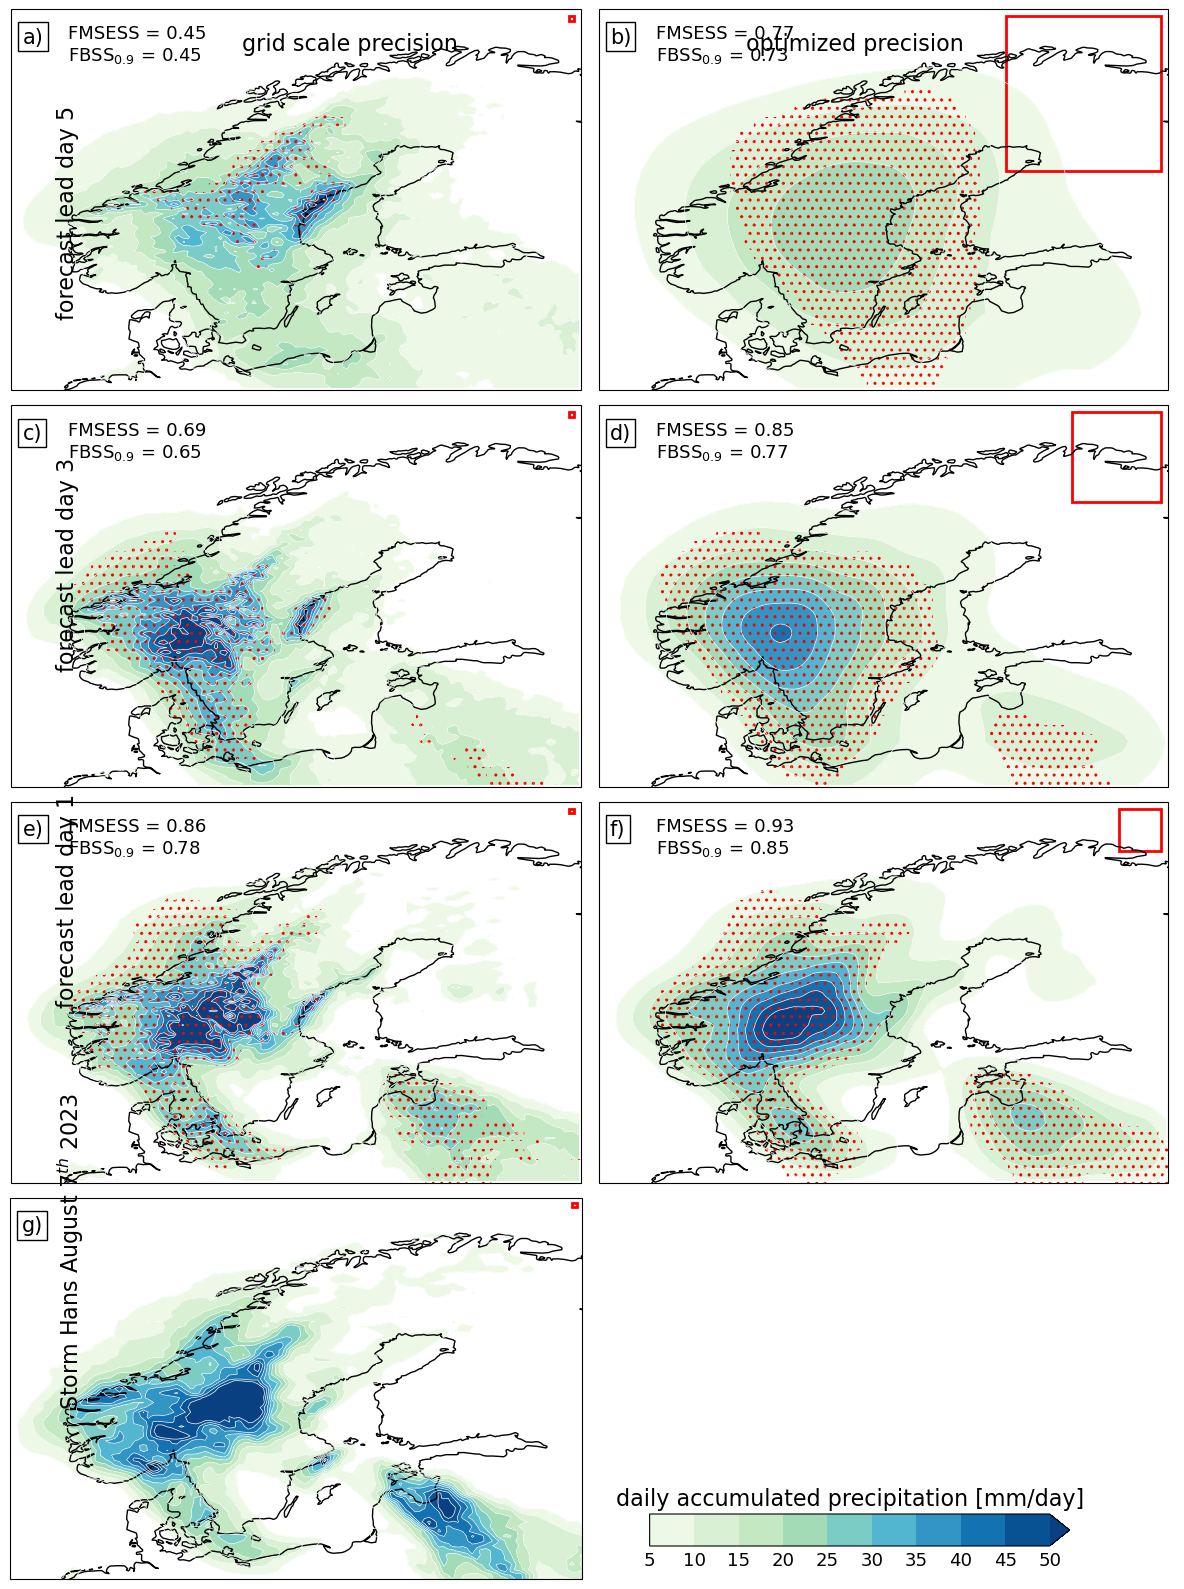
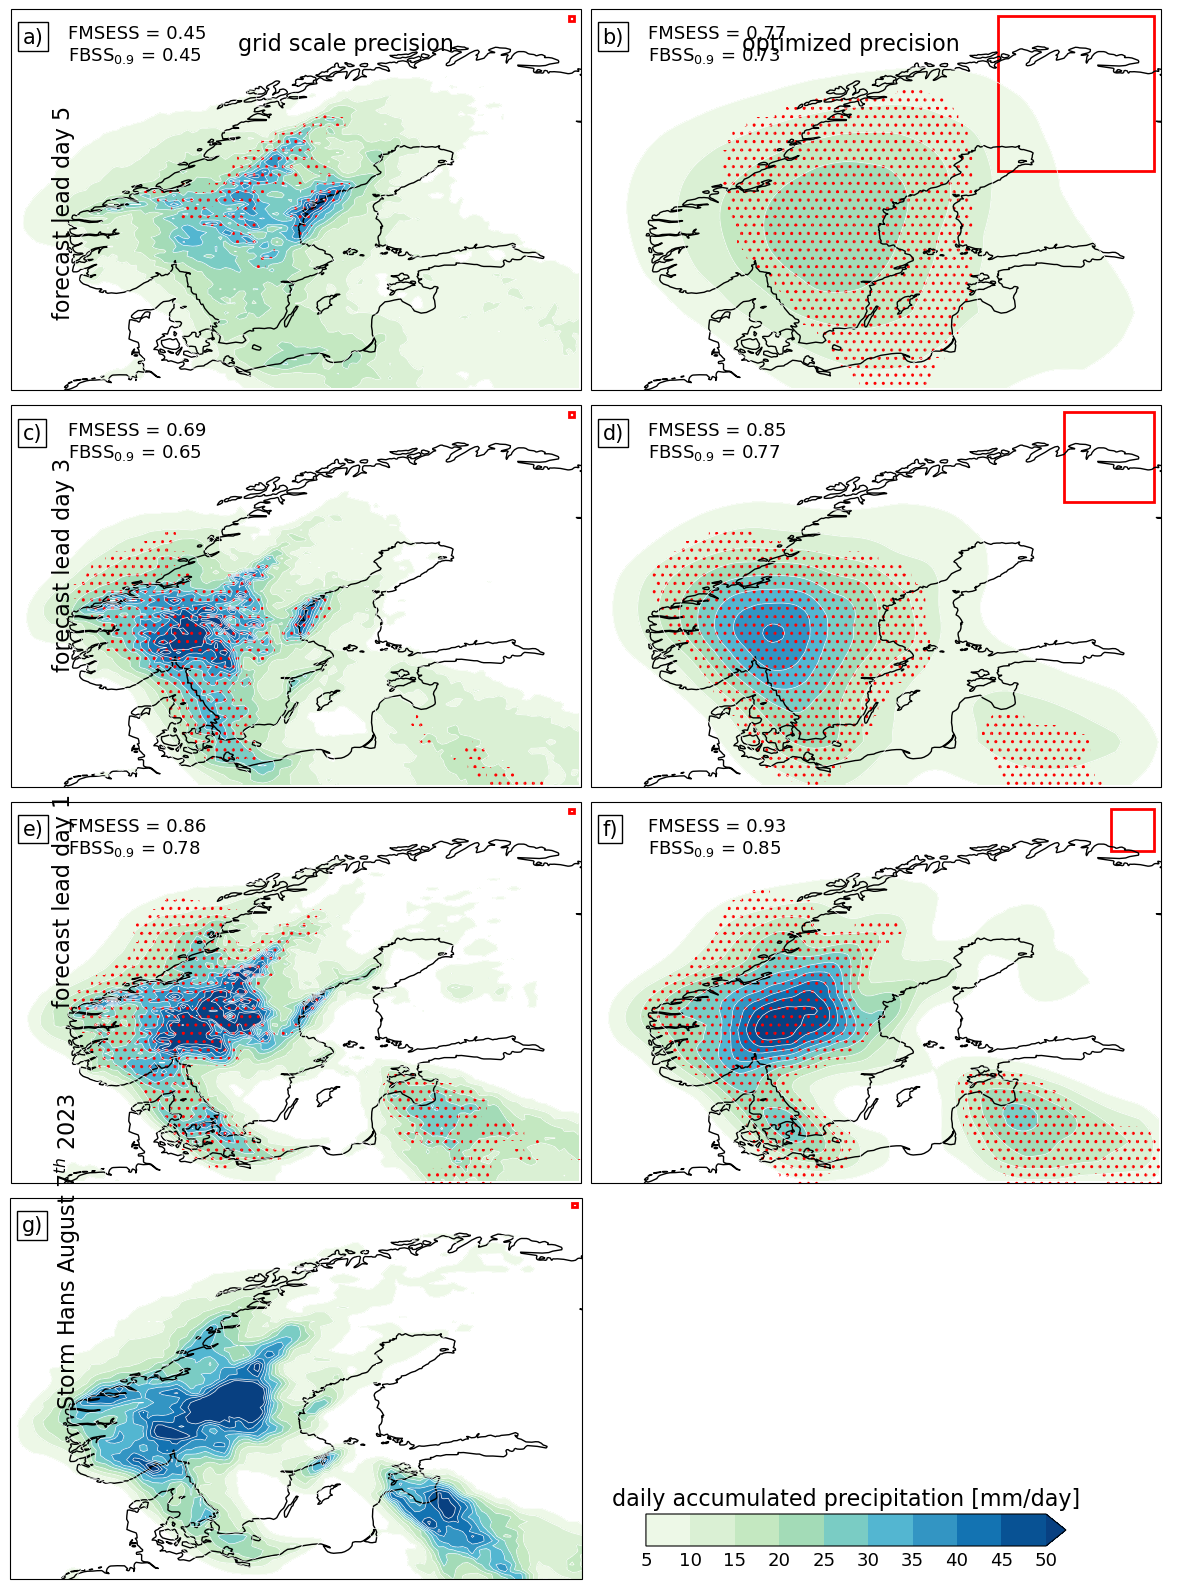
update

diff --git a/code/plot/test.py b/code/plot/test.py
@@ -91,8 +91,7 @@ ax       = ax.ravel()
 
 
 #fig.subplots_adjust(right=0.925, left=0.075,top=0.96,hspace=0.03,wspace=0.01)
-#fig.subplots_adjust(hspace=0.03,wspace=0.01)
-fig.subplots_adjust(top=0.95, bottom=0.05, left=0.05, right=0.98, hspace=0.02, wspace=0.02)
+fig.subplots_adjust(top=0.9, bottom=0.05, left=0.05, right=0.98, hspace=0.02, wspace=0.02)
 
 
 title1 = r'a) 1 gridpoint$^2$ precision'
